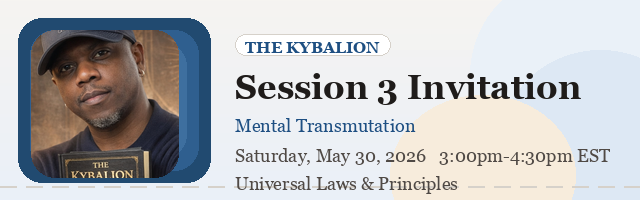
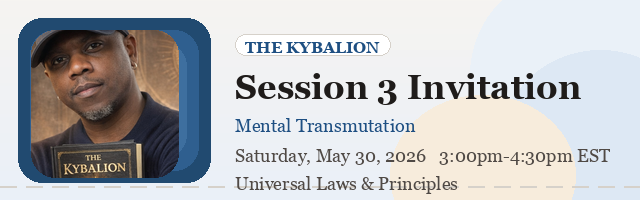
Final micro-adjust: lower and right-shift Session 3 portrait crop

Changed region(s): [[0.0312, 0.15, 0.2812, 0.9], [0.25, 0.66, 0.2812, 0.69]]

diff --git a/docs/kybalion/invite3/index.html b/docs/kybalion/invite3/index.html
@@ -17,7 +17,7 @@
     />
     <meta property="og:type" content="website" />
     <meta property="og:url" content="https://comms.davidelloyd.com/kybalion/invite3/" />
-    <meta property="og:image" content="https://comms.davidelloyd.com/kybalion/invite3/kybalion_session_3_banner_v3.png" />
+    <meta property="og:image" content="https://comms.davidelloyd.com/kybalion/invite3/kybalion_session_3_banner_v4.png" />
 
     <meta name="twitter:card" content="summary_large_image" />
     <meta name="twitter:title" content="Session 3 — Saturday, May 30, 2026 @ 3:00pm-4:30pm EST" />
@@ -25,7 +25,7 @@
       name="twitter:description"
       content="Session 3: Chapter 3, Mental Transmutation. Review Session 2 and prepare for the next discussion."
     />
-    <meta name="twitter:image" content="https://comms.davidelloyd.com/kybalion/invite3/kybalion_session_3_banner_v3.png" />
+    <meta name="twitter:image" content="https://comms.davidelloyd.com/kybalion/invite3/kybalion_session_3_banner_v4.png" />
 
     <style>
       :root {
@@ -348,7 +348,7 @@
       <div class="card banner-card">
         <img
           class="invite-banner"
-          src="kybalion_session_3_banner_v3.png"
+          src="kybalion_session_3_banner_v4.png"
           alt="Kybalion Session 3 invitation banner"
           width="640"
           height="200"
